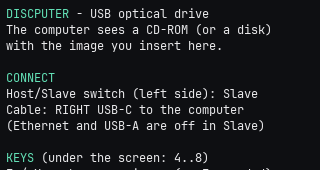
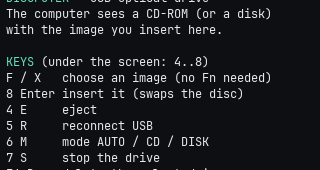
Help: connect diagram (switch on the left, Slave = up, cable on the right USB-C2)
Claude-Session: https://claude.ai/code/session_017qLHAkC6kcghx4Uy9wAKgW

diff --git a/app/src/disc_app.cpp b/app/src/disc_app.cpp
@@ -28,11 +28,6 @@ const char* kHelp =
     "The computer sees a CD-ROM (or a disk)\n"
     "with the image you insert here.\n"
     "\n"
-    "#63e2b7 CONNECT#\n"
-    "Host/Slave switch (left side): Slave\n"
-    "Cable: RIGHT USB-C to the computer\n"
-    "(Ethernet and USB-A are off in Slave)\n"
-    "\n"
     "#63e2b7 KEYS# (under the screen: 4..8)\n"
     "F / X   choose an image (no Fn needed)\n"
     "8 Enter insert it (swaps the disc)\n"
@@ -65,6 +60,78 @@ const char* kHelp =
     "\n"
     "The drive keeps working after you\n"
     "leave the app; S stops it.";
+
+constexpr int kDiagramH = 160;  // the connect diagram on top of the help
+
+lv_obj_t* rect(lv_obj_t* parent, int x, int y, int w, int h, lv_color_t fill, lv_opa_t opa = LV_OPA_COVER,
+               int radius = 1) {
+    auto* r = make_box(parent, x, y, w, h);
+    lv_obj_set_style_bg_color(r, fill, 0);
+    lv_obj_set_style_bg_opa(r, opa, 0);
+    lv_obj_set_style_radius(r, radius, 0);
+    return r;
+}
+
+lv_obj_t* text_at(lv_obj_t* parent, const lv_font_t* font, lv_color_t color, const char* text, int x, int y,
+                  int w = 0, lv_text_align_t align = LV_TEXT_ALIGN_LEFT) {
+    auto* l = make_label(parent, font, color, text);
+    lv_obj_set_pos(l, x, y);
+    if (w > 0) {
+        lv_obj_set_width(l, w);
+        lv_obj_set_style_text_align(l, align, 0);
+    }
+    return l;
+}
+
+// How to plug in, drawn: the CardputerZero from the front (schematic: the official docs give the
+// sides of the ports and the switch, not their exact places). Switch on the LEFT side, Slave = up
+// (left); in Slave the CM0 USB is the RIGHT USB-C (C2), the hub side (USB-A, C1, Ethernet) is off.
+void build_connect_diagram(lv_obj_t* parent, const cz::Style& s) {
+    auto* d = make_box(parent, 0, 0, kWidth - 12, kDiagramH);
+    text_at(d, s.ui12, s.accent, "CONNECT", 0, 0);
+    text_at(d, s.ui10, s.dim, "(schematic)", 66, 2);
+
+    // the body, 84 x 54 mm
+    const int bx = 92, by = 20, bw = 116, bh = 75;
+    auto* body = rect(d, bx, by, bw, bh, s.surface, LV_OPA_COVER, 6);
+    lv_obj_set_style_border_width(body, 1, 0);
+    lv_obj_set_style_border_color(body, s.border, 0);
+    rect(d, bx + 30, by + 6, 56, 24, s.bg, LV_OPA_COVER, 2);  // screen
+    text_at(d, s.ui10, s.dim, "LCD", bx + 30, by + 11, 56, LV_TEXT_ALIGN_CENTER);
+    for (int row = 0; row < 4; ++row) {  // keyboard
+        for (int col = 0; col < 10; ++col) {
+            rect(d, bx + 9 + col * 10, by + 36 + row * 9, 7, 6, s.border, LV_OPA_COVER, 1);
+        }
+    }
+    text_at(d, s.ui10, s.dim, "EXT", bx, by - 12, bw, LV_TEXT_ALIGN_CENTER);
+
+    // left side: the switch (thumb up = Slave), USB-C1, USB-A
+    auto* track = rect(d, bx - 4, by + 8, 7, 20, s.bg, LV_OPA_COVER, 2);
+    lv_obj_set_style_border_width(track, 1, 0);
+    lv_obj_set_style_border_color(track, s.accent, 0);
+    rect(d, bx - 3, by + 9, 5, 9, s.accent, LV_OPA_COVER, 1);  // the thumb, up
+    rect(d, bx - 3, by + 38, 4, 11, s.dim, LV_OPA_COVER, 1);   // USB-C1
+    rect(d, bx - 4, by + 54, 5, 15, s.dim, LV_OPA_COVER, 1);   // USB-A
+    text_at(d, s.ui12, s.accent, "SWITCH", 0, by + 3, bx - 10, LV_TEXT_ALIGN_RIGHT);
+    text_at(d, s.ui10, s.accent, "up = SLAVE", 0, by + 18, bx - 10, LV_TEXT_ALIGN_RIGHT);
+    text_at(d, s.ui10, s.dim, "USB-C1 (off)", 0, by + 37, bx - 10, LV_TEXT_ALIGN_RIGHT);
+    text_at(d, s.ui10, s.dim, "USB-A (off)", 0, by + 55, bx - 10, LV_TEXT_ALIGN_RIGHT);
+
+    // right side: USB-C2 to the computer, Grove
+    rect(d, bx + bw - 1, by + 22, 4, 11, s.accent, LV_OPA_COVER, 1);  // USB-C2
+    rect(d, bx + bw + 3, by + 26, 16, 3, s.accent);                    // the cable
+    rect(d, bx + bw - 1, by + 52, 4, 10, s.dim, LV_OPA_COVER, 1);      // Grove
+    text_at(d, s.ui12, s.accent, "USB-C2", bx + bw + 22, by + 14);
+    text_at(d, s.ui10, s.accent, "computer", bx + bw + 22, by + 29);
+    text_at(d, s.ui10, s.dim, "Grove", bx + bw + 8, by + 51);
+
+    text_at(d, s.ui10, s.text,
+            "Switch on the LEFT side: up (left) = SLAVE.\n"
+            "Cable: the RIGHT USB-C (C2) to the computer.\n"
+            "Green LED is on in HOST mode (USB hub),\n"
+            "off in SLAVE. In SLAVE: no Ethernet, USB-A, C1.",
+            0, by + bh + 6);
+}
 
 std::string color_hex(lv_color_t c) {
     char buf[8];
@@ -187,7 +254,9 @@ void DiscApp::build() {
     lv_obj_add_flag(help_, LV_OBJ_FLAG_SCROLLABLE);
     lv_obj_set_scrollbar_mode(help_, LV_SCROLLBAR_MODE_ACTIVE);
     lv_obj_set_style_pad_all(help_, 6, 0);
+    build_connect_diagram(help_, s);
     help_text_ = make_label(help_, s.mono12, s.text, kHelp);
+    lv_obj_set_pos(help_text_, 0, kDiagramH + 4);
     lv_label_set_recolor(help_text_, true);
     lv_obj_add_flag(help_, LV_OBJ_FLAG_HIDDEN);
 

diff --git a/README.md b/README.md
@@ -11,7 +11,11 @@ USBODE, so it is GPL-3.0 as well.
 
 ## Hardware
 
-- **Host/Slave switch** (left side) on **Slave**: the CM0 USB goes straight to the **right USB-C**
+![connect](app/screenshots/connect.png)
+
+The same picture opens first in the app's help (F1).
+
+- **Host/Slave switch** (left side) on **Slave** (up / left; the green LED is off in Slave): the CM0 USB goes straight to the **right USB-C**
   port. The internal USB hub is off then: no Ethernet, USB-A, left USB-C or EXT USB. Wi-Fi works.
 - USB device controller: `dwc2` (`/sys/class/udc/3f980000.usb`, device tree `dr_mode = otg`).
 - Kernel functions available: `usb_f_mass_storage` (CD-ROM or disk), `usb_f_fs` (gadget in userspace).
@@ -53,9 +57,10 @@ Checklist:
 |---|---|
 | ![drive](app/screenshots/drive.png) | ![list](app/screenshots/list.png) |
 | ![swap](app/screenshots/swap.png) | ![disk](app/screenshots/disk.png) |
-| ![off](app/screenshots/off.png) | ![help](app/screenshots/help.png) |
+| ![off](app/screenshots/off.png) | |
 | ![fn](app/screenshots/fn.png) | ![copy](app/screenshots/copy.png) |
 | ![setup](app/screenshots/setup.png) | ![delete](app/screenshots/delete.png) |
+| ![connect](app/screenshots/connect.png) | ![help](app/screenshots/help.png) |
 
 - **Copying images in over USB** (0.2.0): `U` or Fn+7 turns the drive into a writable USB flash drive
   `DISCPUTER` (exFAT). Copy images onto it from the computer and eject it there: the app notices the
